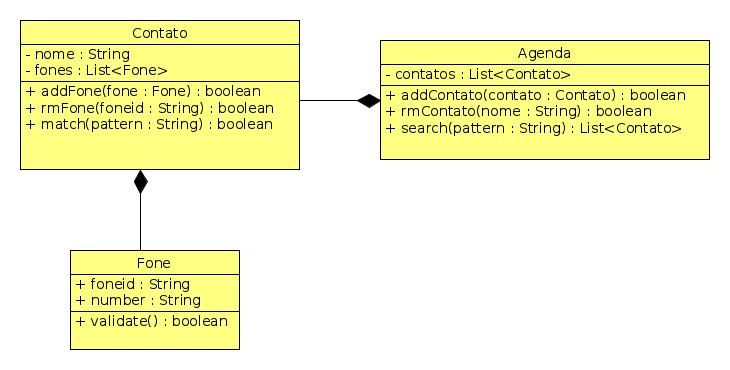
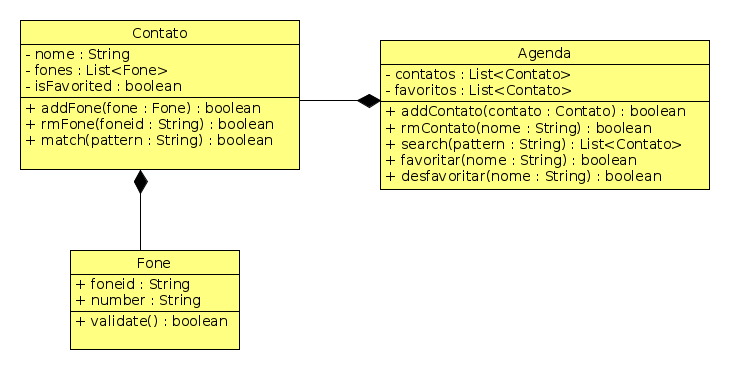
adicionando favoritos e resumo de pontos

Changed region(s): [[0.5123, 0.2081, 0.9945, 0.5351], [0.0301, 0.2081, 0.3918, 0.4162]]

diff --git a/2_composicao_agenda_telefonica/Readme.md b/2_composicao_agenda_telefonica/Readme.md
@@ -6,7 +6,7 @@ Ampliando a atividade de contatos do nível 1, vamos criar uma agenda que gerenc
 
 ## Funcionalidades
 
-- **[1P]** Deverá adicionar contatos usando um nome.
+- **[P]** Deverá adicionar contatos usando um nome.
 - Não deve ser possível adicionar dois contatos com o mesmo nome.
 
         >> addContato $nome
@@ -15,7 +15,7 @@ Ampliando a atividade de contatos do nível 1, vamos criar uma agenda que gerenc
         erro | contato já existe
 
 ---
-- **[1P]** Remover um contatos pelo nome.
+- **[P]** Remover um contatos pelo nome.
 
         >> rmContato $nome
         contato removido
@@ -23,11 +23,11 @@ Ampliando a atividade de contatos do nível 1, vamos criar uma agenda que gerenc
         erro | contato não existe
 
 ---
-- **[1P]** Deverá adicionar telefones ao contato.
+- **[P]** Deverá adicionar telefones ao contato.
 - Telefones tem identificador e número.
 - Identificadores serão strings como (casa | fixo | oi | tim | recado).
-- **[1P]** Não deve ser possível adicionar dois telefones com o mesmo identificador no mesmo contato.
-- **[1E]** O número deverá conter apenas dígitos.
+- Não deve ser possível adicionar dois telefones com o mesmo identificador no mesmo contato.
+- O número deverá conter apenas dígitos.
 
         >> addFone $nome $foneid $number 
         ok
@@ -37,20 +37,7 @@ Ampliando a atividade de contatos do nível 1, vamos criar uma agenda que gerenc
         erro | nome não existe
 
 ---
-- **[1E]** Deverá inserir telefones em lote a lista de telefones.
-- O primeiro parâmetro é o nome.
-- Cada dupla de foneid e number será separada por #
-- O último parâmtro será um ##.
-
-        >> addFones $nome $foneid $number # $foneid number # ... ##
-        ok
-        ------
-        erro | $foneid já existe
-        erro | $numero invalido
-        erro | $nome não existe
-
----
-- **[1P]** Deverá remover telefones do contato pelo foneid.
+- **[P]** Deverá remover telefones do contato pelo foneid.
 
         >> rmFone $nome $foneid
         ok
@@ -58,33 +45,78 @@ Ampliando a atividade de contatos do nível 1, vamos criar uma agenda que gerenc
         erro | $nome nao existe
         erro | $foneid não existe
 
+
 ---
-- **[1P]** Mostrar os contatos.
-- **[1E]** Ordene os contatos pelo nome.
+- **[P]** Mostrar os contatos.
+- **[E]** Ordene os contatos pelo nome.
+- Se fizer a parte de favoritos, marque os contatos que são favoritados com um @ antes do nome. Se não for favorito use -.
 
         >> showContatos
-        $nome1 [$foneid $number][$foneid $number]
-        $nome2 [$foneid $number][$foneid $number] ...
+        - $nome1 [$foneid $number][$foneid $number]
+        @ $nome2 [$foneid $number][$foneid $number] ...
         
 
 ---
-- **[1P]** Buscar contatos por substring.
+- **[2P]** Buscar contatos por substring.
 - Se o contato tiver qualquer campo que combine com a string pattern de busca, ele deve ser retornado.
 
         >> search $pattern
-        $nome1 [$fone1 $desc1][$fone2 $desc2] ...
+        - $nome1 [$fone1 $desc1][$fone2 $desc2] ...
         ...
 
 ---
-- **[1P]** Inicialize o sistema para que ele já inicie com alguns contatos e telefones.
+- **[mE]** Favoritar contatos.
+
+        >> fav $nome
+        ok
+        erro | $nome não encotrado
+
+- **[mE]** Desfavoritar contatos.
+
+        >> desfav $nome
+        ok
+        erro | $nome não encontrado
+        erro | $nome não é favorito
+
+---
+- **[E]** Pegar favoritos.
+
+        >> showFav
+        @ $nome1 [$fone1 $desc1][$fone2 $desc2] ...
+        ...
+
+
+---
+- **[P]** Inicialize o sistema para que ele já inicie com alguns contatos e telefones.
+
+
+---
+## Resumo dos pontos
+
+        [ ][1P] addContato
+        [ ][1P] rmContato
+        [ ][1P] addFone
+        [ ][1P] rmFone
+        [ ][1P] mostrar Contatos
+        [ ][2P] busca por padrão
+        [ ][1P] inicialização do sistema
+        [ ]     Total pontos
+
+        [ ][mE] favoritar
+        [ ][mE] desfavoritar
+        [ ][1E] mostrar favoritos
+        [ ][1E] mostrar contatos ordenados
+        [ ]     Total Extras
+
 
 ## Sugestões
 - Na busca por padrão, faça a agenda perguntar para cada contato se ele bate com o padrão.
 - Crie métodos toString para todas as Classes.
 - Crie um método match para o contato que faz a busca sobre o resultado do método toString de Contato.
+- Quando remover um contato, verifique de removê-lo dos favoritos também.
 
 ## Diagrama de Classes
 
-- Métodos Get e Set de atributos básicos omitidos.
+- Métodos Get, Set e toString omitidos.
 
 ![](uml.png)
